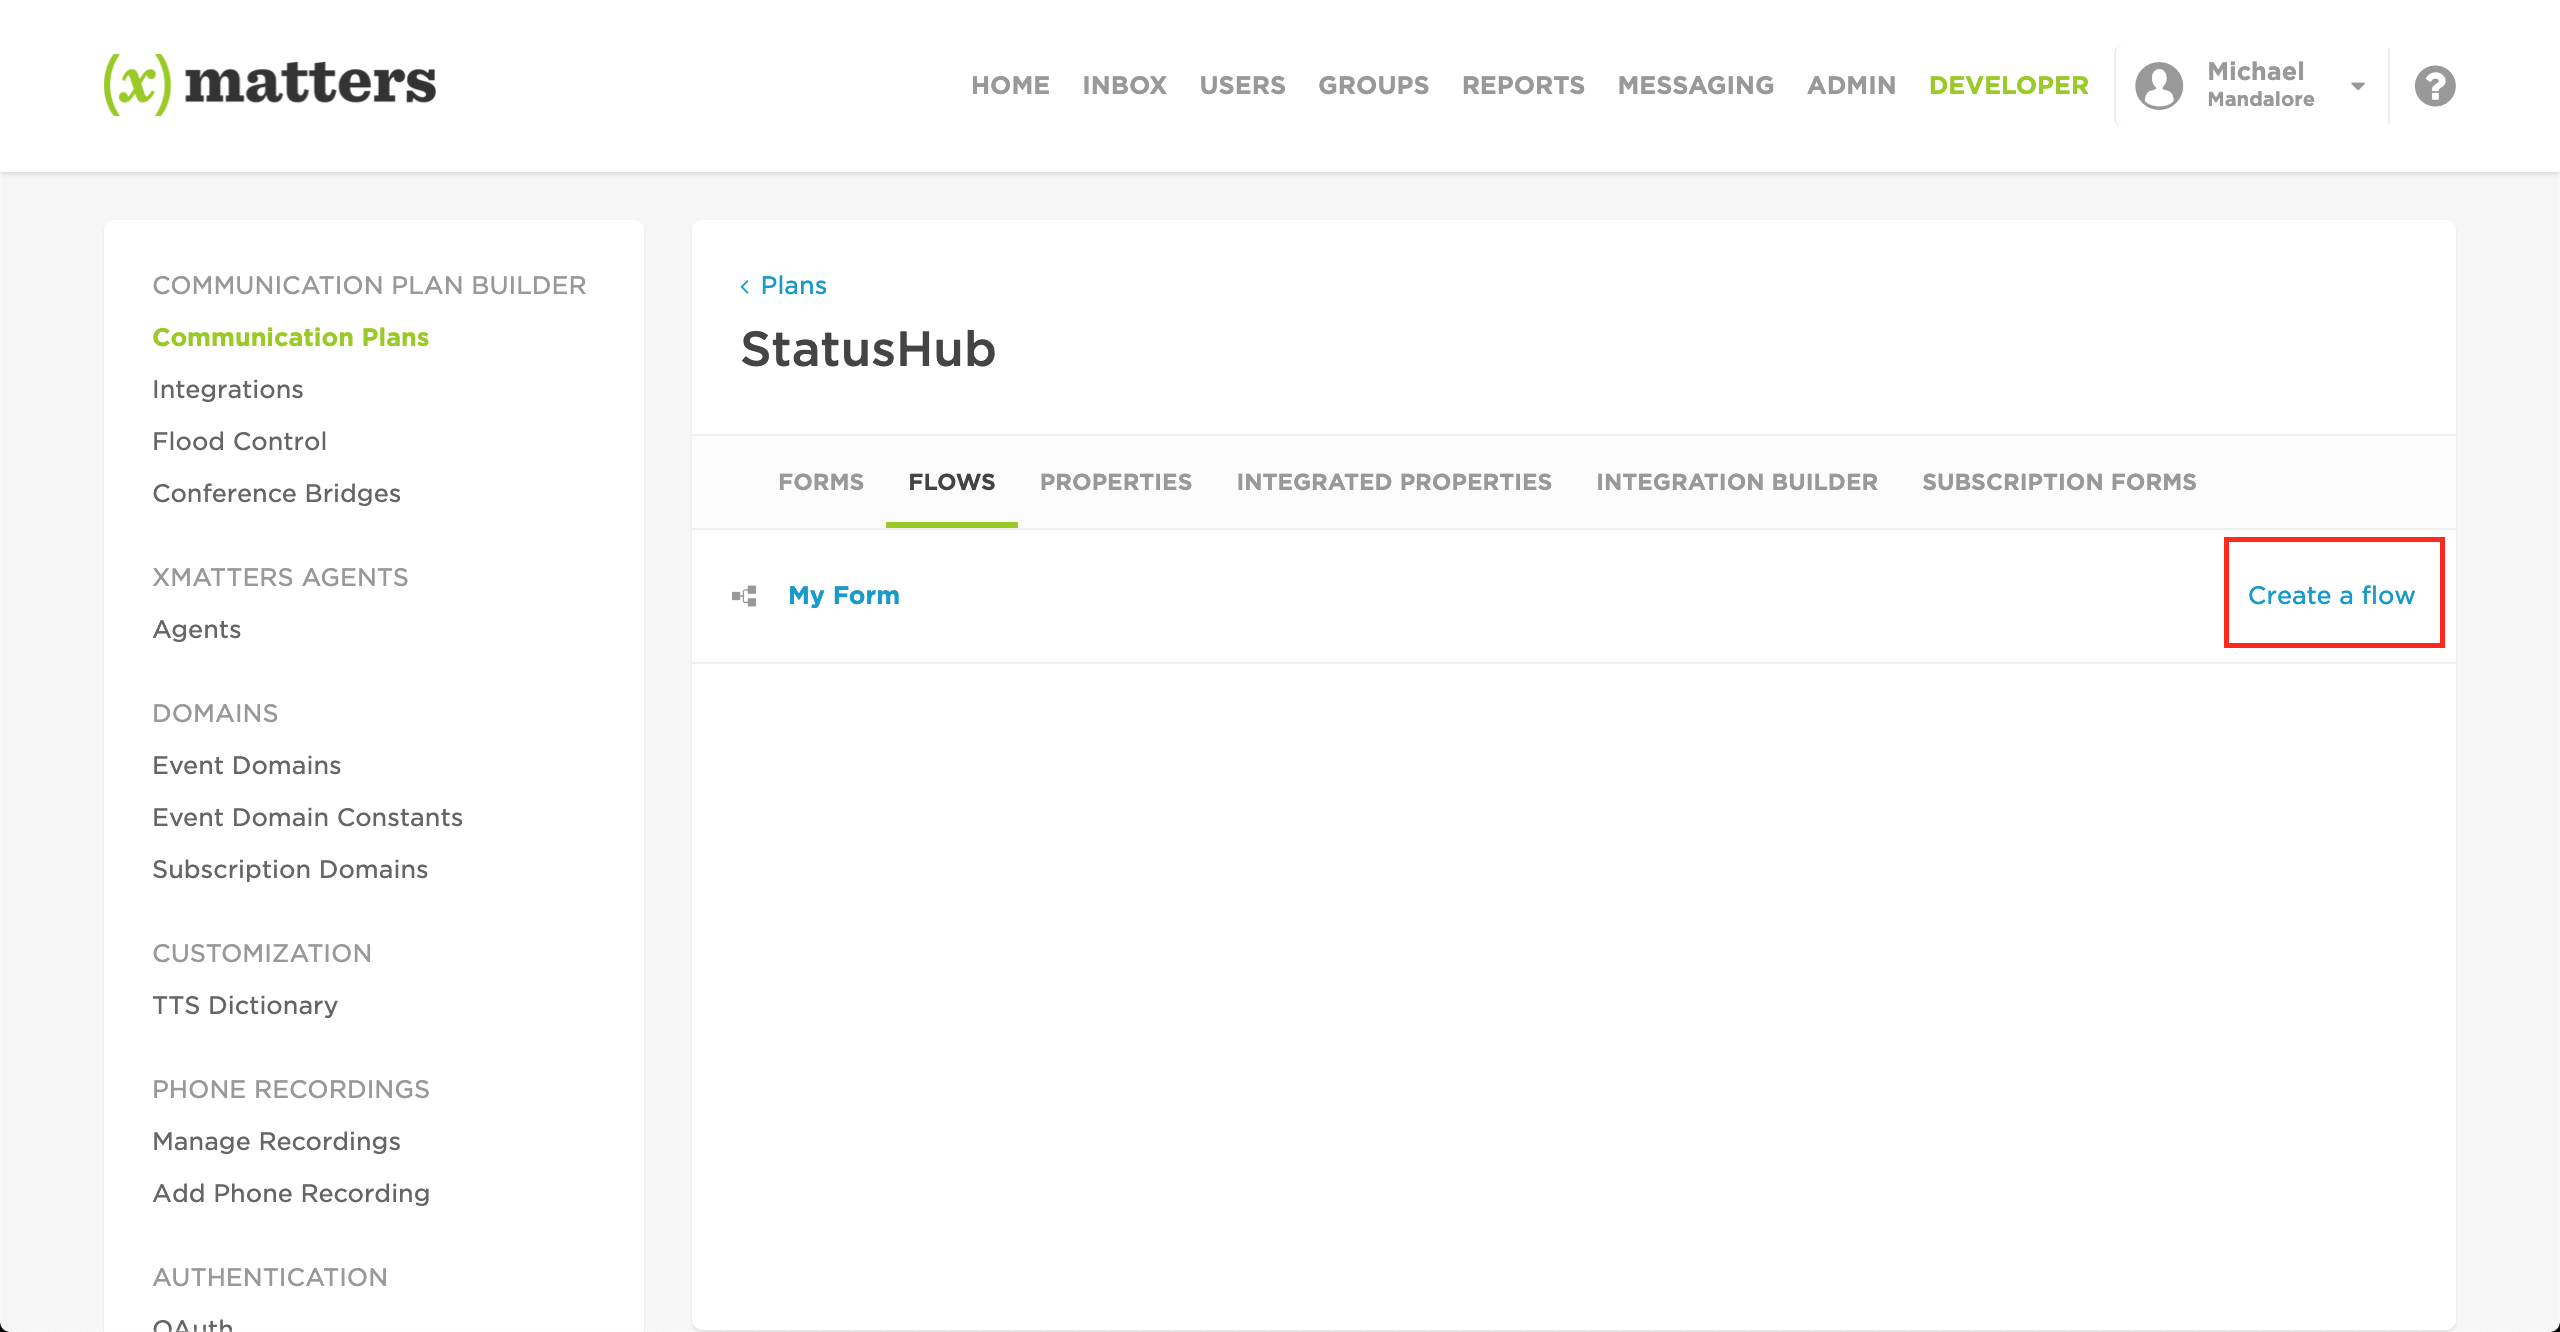
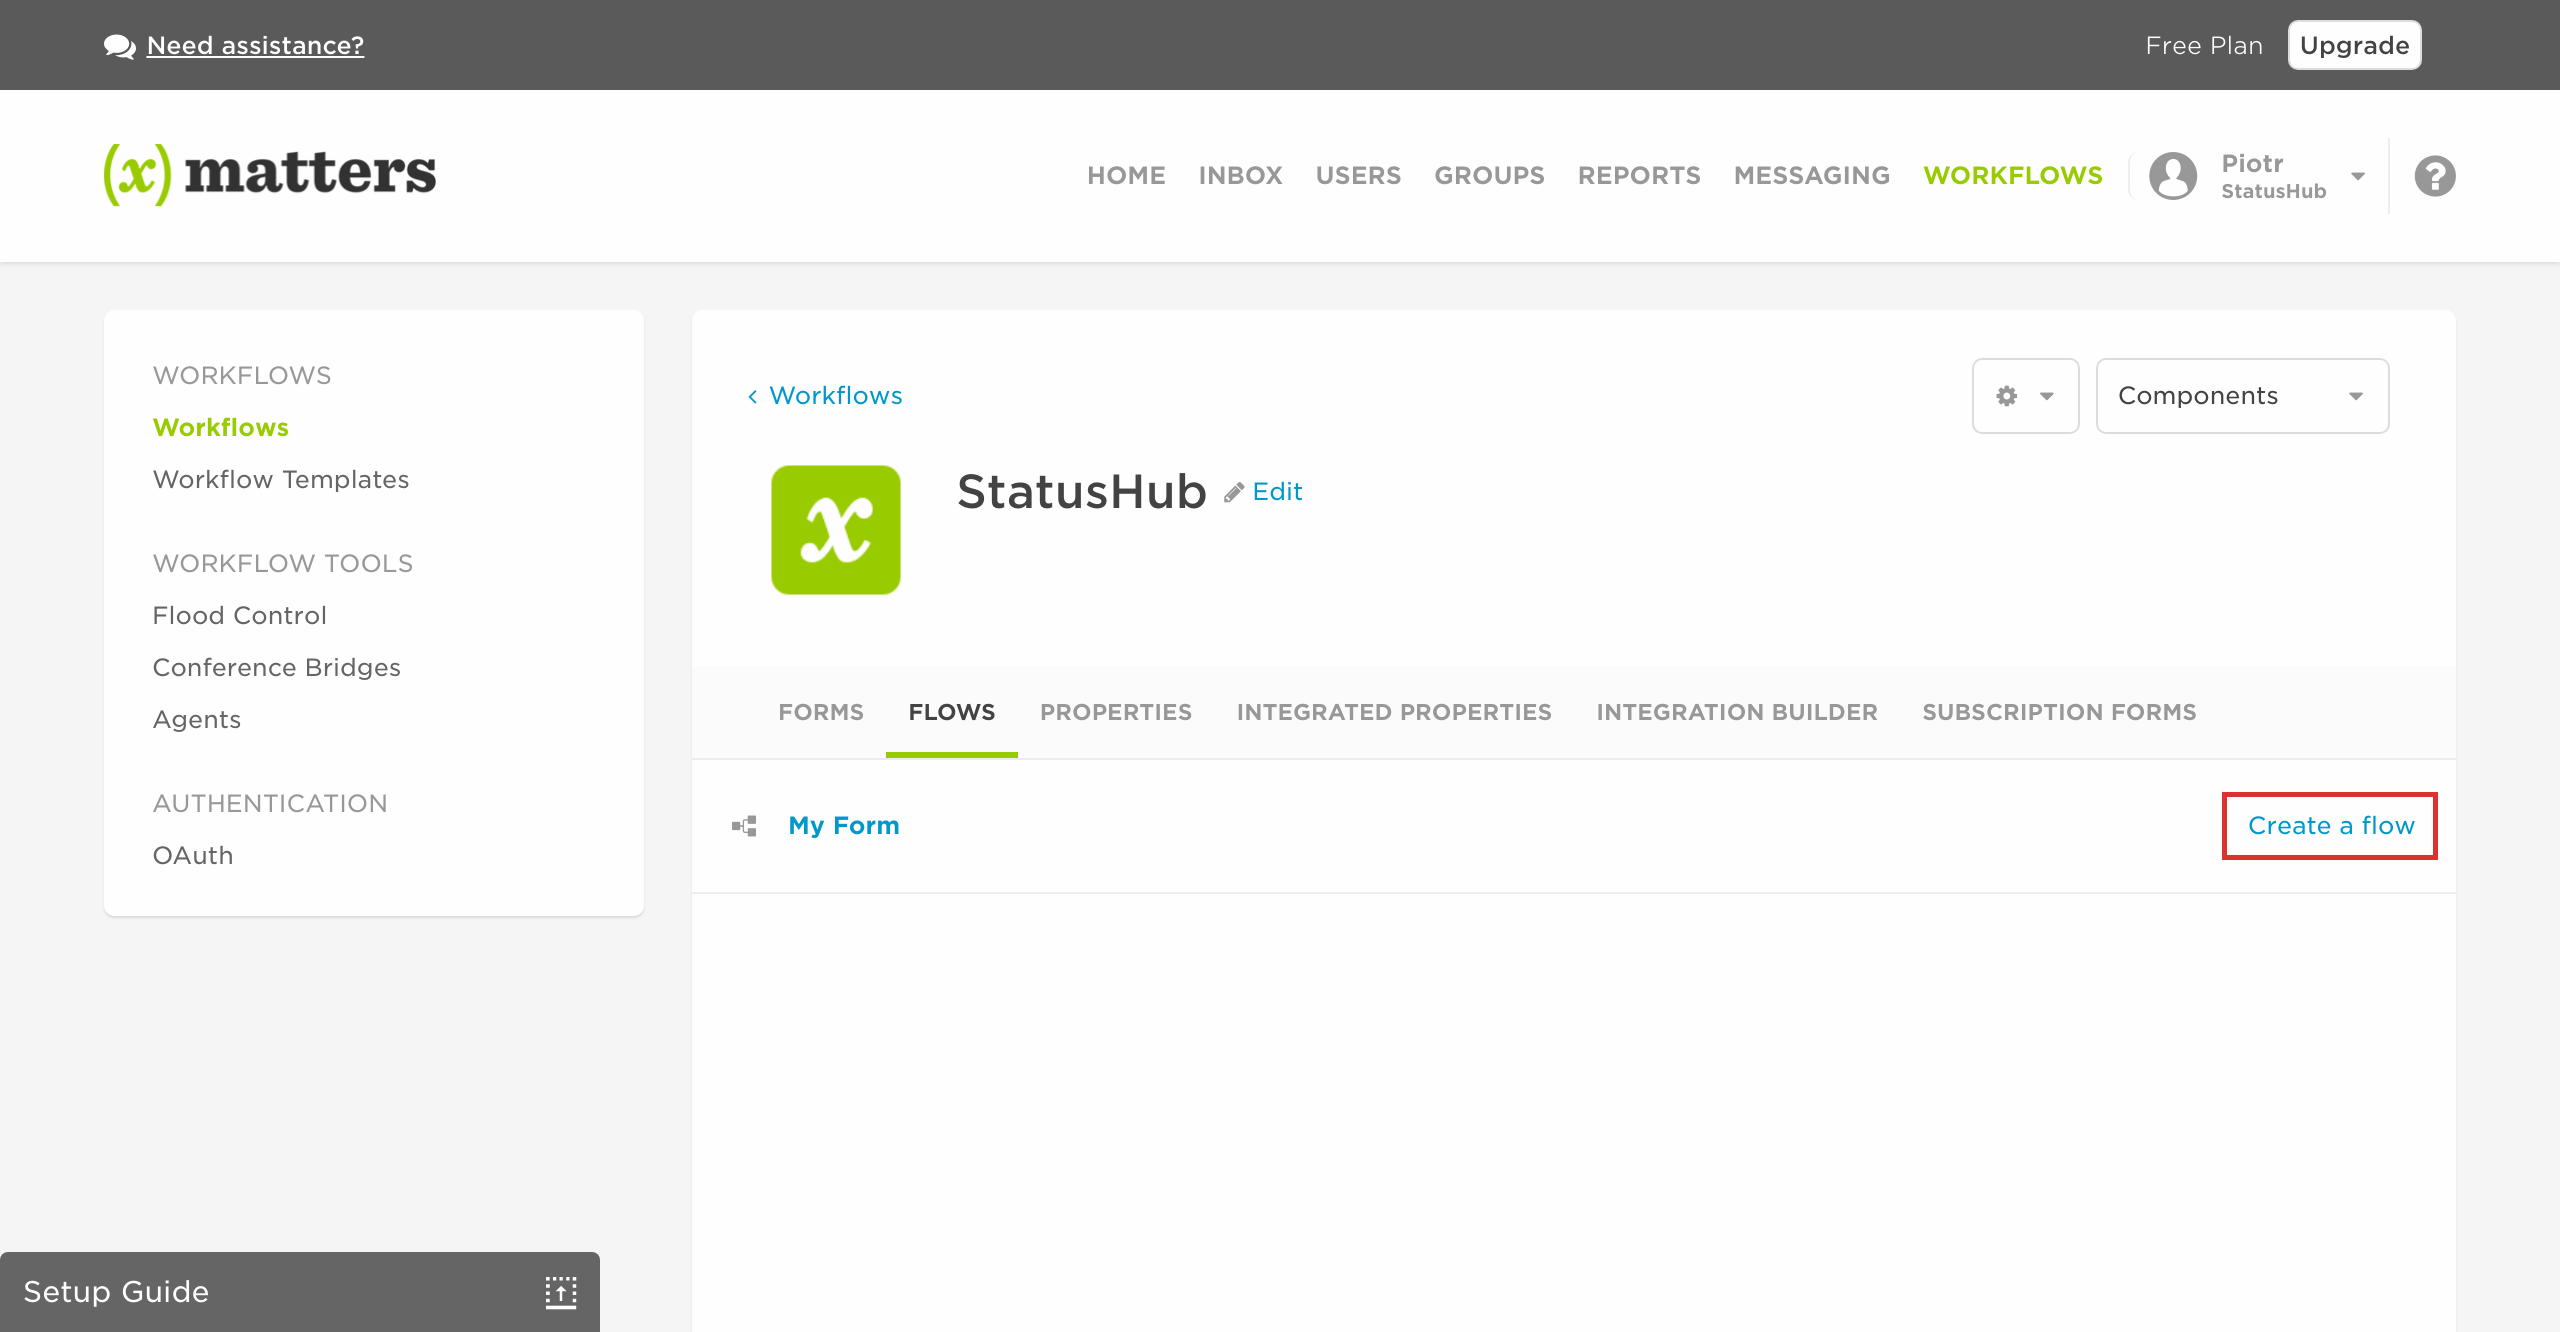
Fix documentiation - Create a flow
Fix documentation steps and screenshots describing how to create new
flow.
Previous documentiation had screenshots and text based on old version of
xMatters UI

diff --git a/README.md b/README.md
@@ -37,9 +37,8 @@ This document details how to install and use this integration.
 
 ## Adding custom steps to Flow Designer
 
-1. Log in to your xMatters instance, navigate to the Developer tab, and for the Communication Plan you would like to add StatusHub options to, click on **Edit** > **Flows**
-![flow-designer](./media/flow-designer.png)
-2. For the form you would like to add StatusHub options to, click on `Create a flow`
+1. Log in to your xMatters instance, navigate to the Workflows tab, and for the Communication Plan you would like to add StatusHub options to
+2. Create new form and then switch to **Flows** tab and click on **Create a flow**
 ![create-flow](./media/create-flow.png)
 3. Click and drag **Responses** into the flow
 ![drag-responses](./media/drag-responses.png)
